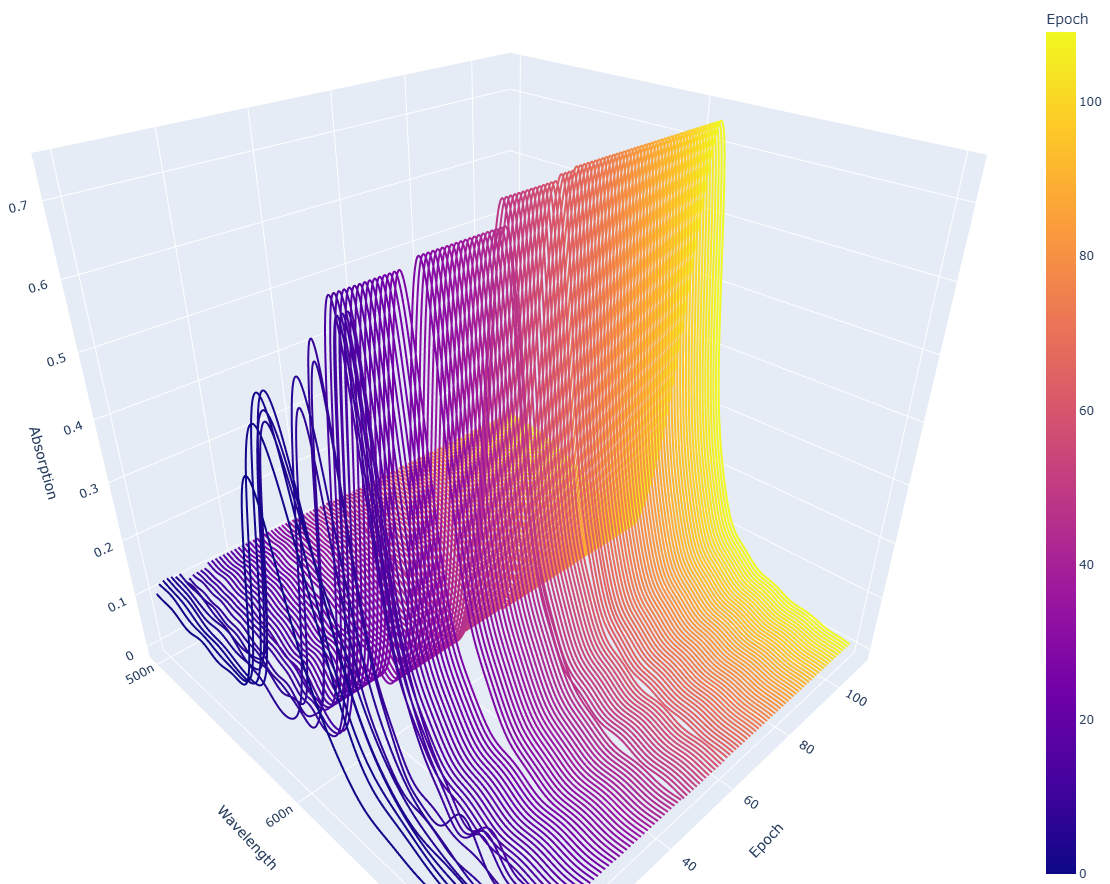
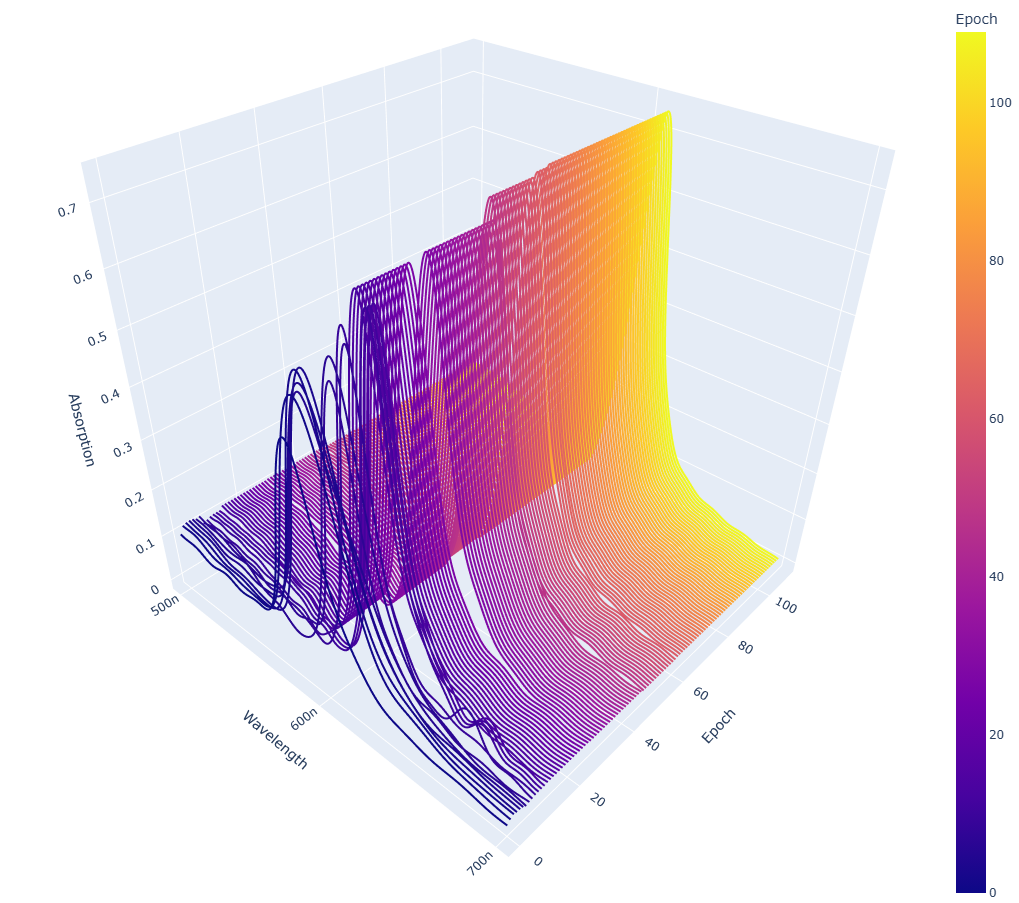
almoco de verdade

diff --git a/structure.md b/structure.md
@@ -329,6 +329,8 @@ Ao igualar as duas equações obtemos que as duas retas se encontram de acordo c
 A figura X mostra as duas retas definidas pelas equações 1 e 2.
 Interessante notar que a figura x possui uma reta vertical que mostra o número de individuos necessários para realizar uma rodade de GA de 100 épocas por 100 indivíduos por população. Podemos ver graficamente que o custo computacional inicial é superado em apenas uma rodada de GA.
 
+Trazer parâmetros reais de tempo gasto pelo GA run-4
+
 ### 4.2 requisitos do sistema
 ### 4.3 desenvolvimento e implementação
 ### 4.4 testes